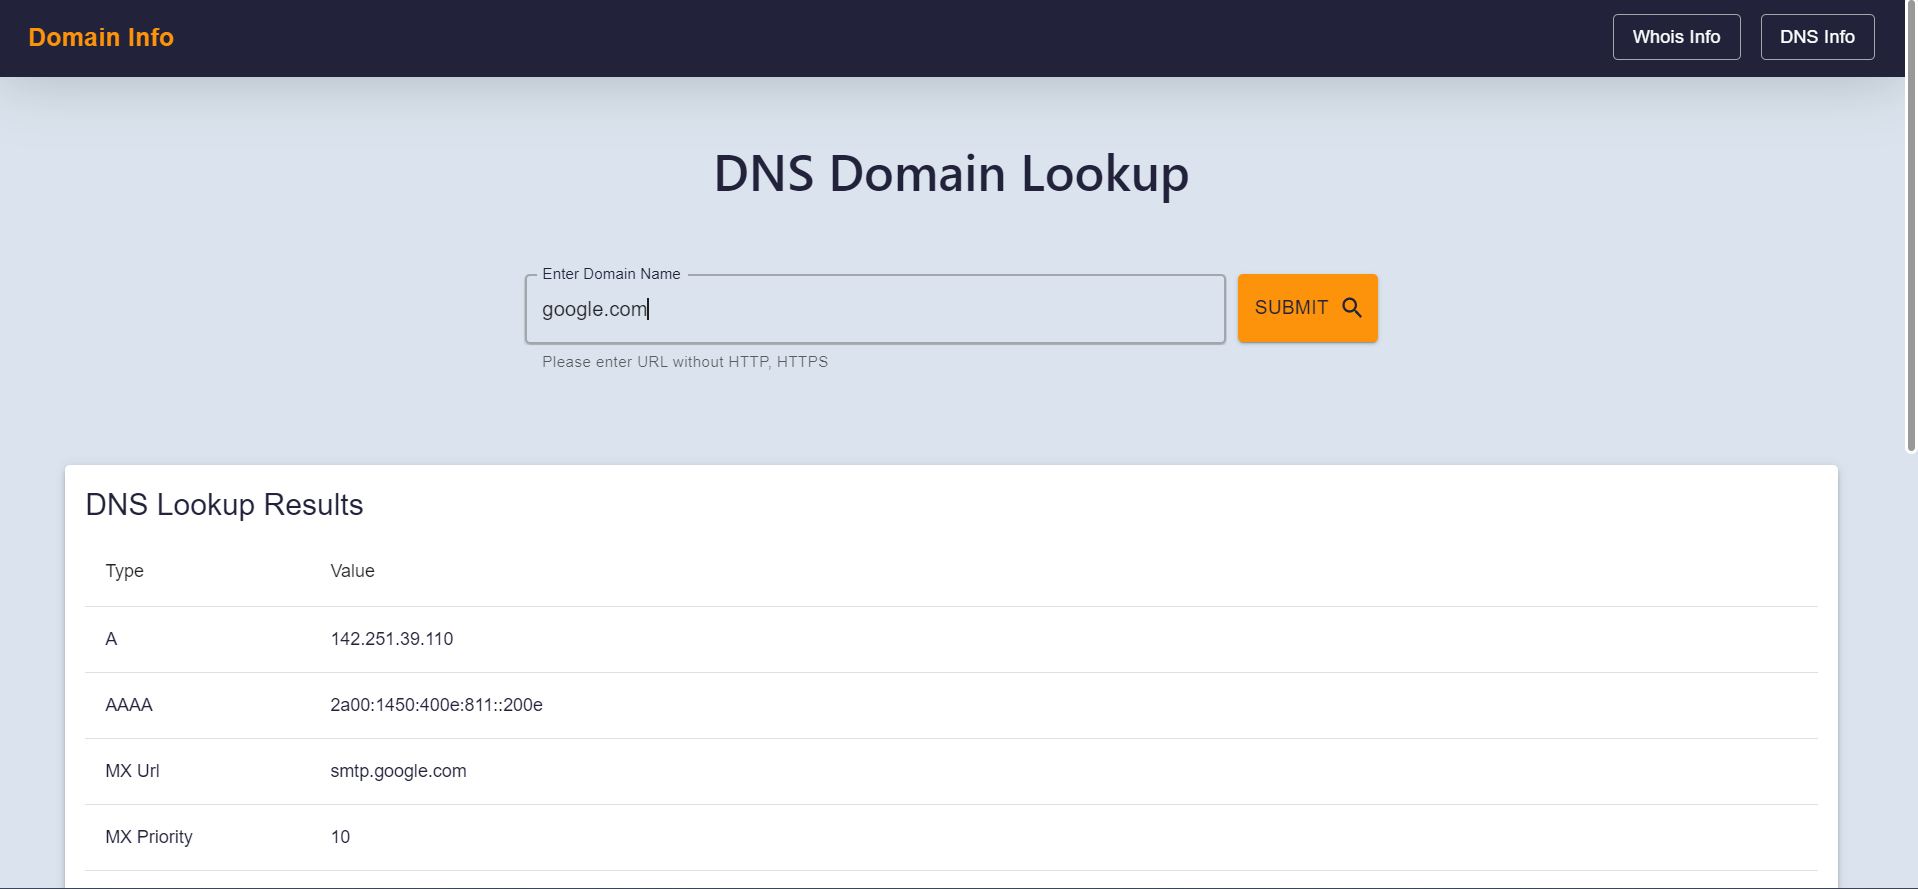
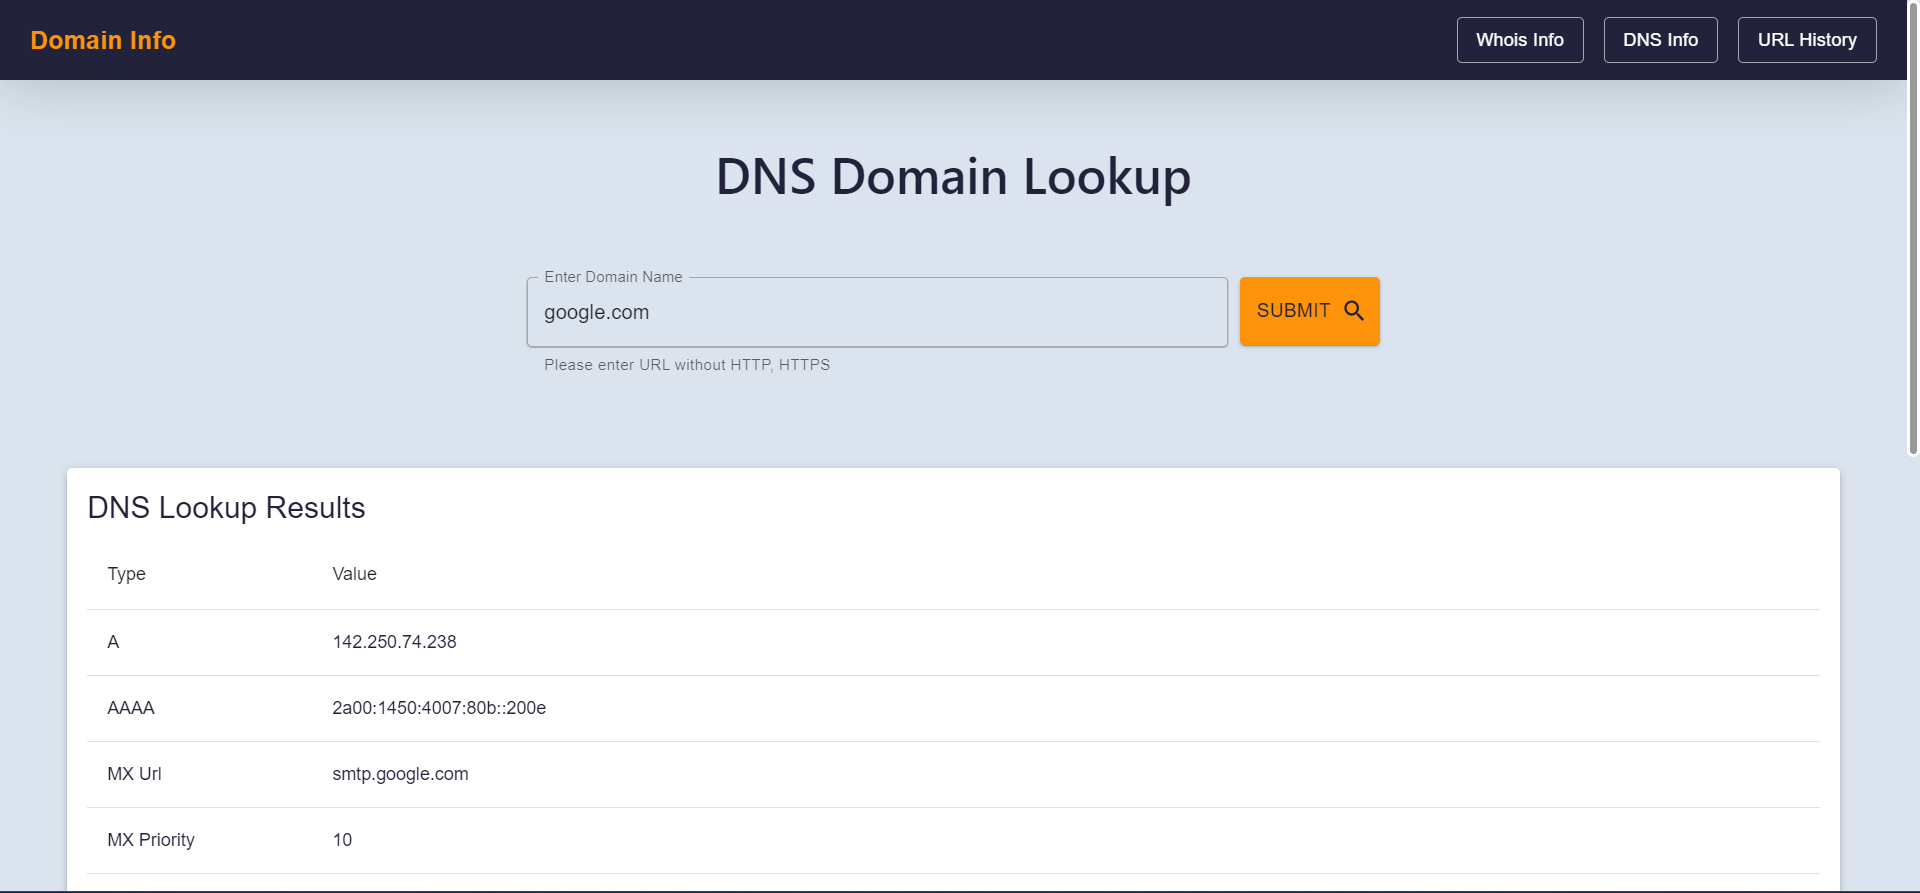
Updated Readme & Screenshots

diff --git a/README.md b/README.md
@@ -9,14 +9,20 @@ Domain Info is a Web Application to get the WHOIS and DNS details of a domain.
 ## Screenshots
 
 #### Whois Lookup
+
 ![SCREENSHOT-domain-info-abhishek](public/screenshots/Whois.png "Whois Lookup Info for domain")
 
 #### DNS Lookup
+
 ![SCREENSHOT-domain-info-abhishek](public/screenshots/DNS.png "DNS Lookup Info for domain")
+
+#### URL History
+
+![SCREENSHOT-domain-info-abhishek](public/screenshots/URL_History.png "URL History")
 
 ## Live Application URL
 
-You can access the application live at  [https://domain-info-abhishek.netlify.app](https://domain-info-abhishek.netlify.app)
+You can access the application live at [https://domain-info-abhishek.netlify.app](https://domain-info-abhishek.netlify.app)
 
 ## Prerequisites
 
@@ -25,9 +31,10 @@ You can access the application live at  [https://domain-info-abhishek.netlify.ap
 ## Features
 
 - Perform Whois lookup on a domain name.
-- Perform DNS lookup on a domain name. 
+- Perform DNS lookup on a domain name.
 - Displays the information in an easy-to-read format.
 - Feature to copy data to clipboard via single click.
+- User can see the Explored URLs history.
 
 ## Installation
 
@@ -45,6 +52,7 @@ You can access the application live at  [https://domain-info-abhishek.netlify.ap
 - Click on the "Submit" button to fetch the information.
 - The information will be displayed on the screen.
 - User can click on the "Copy" Icon to copy the information to clipboard.
+- Access the "History" tab to see the Explored URLs history.
 
 ## Contributing
 
